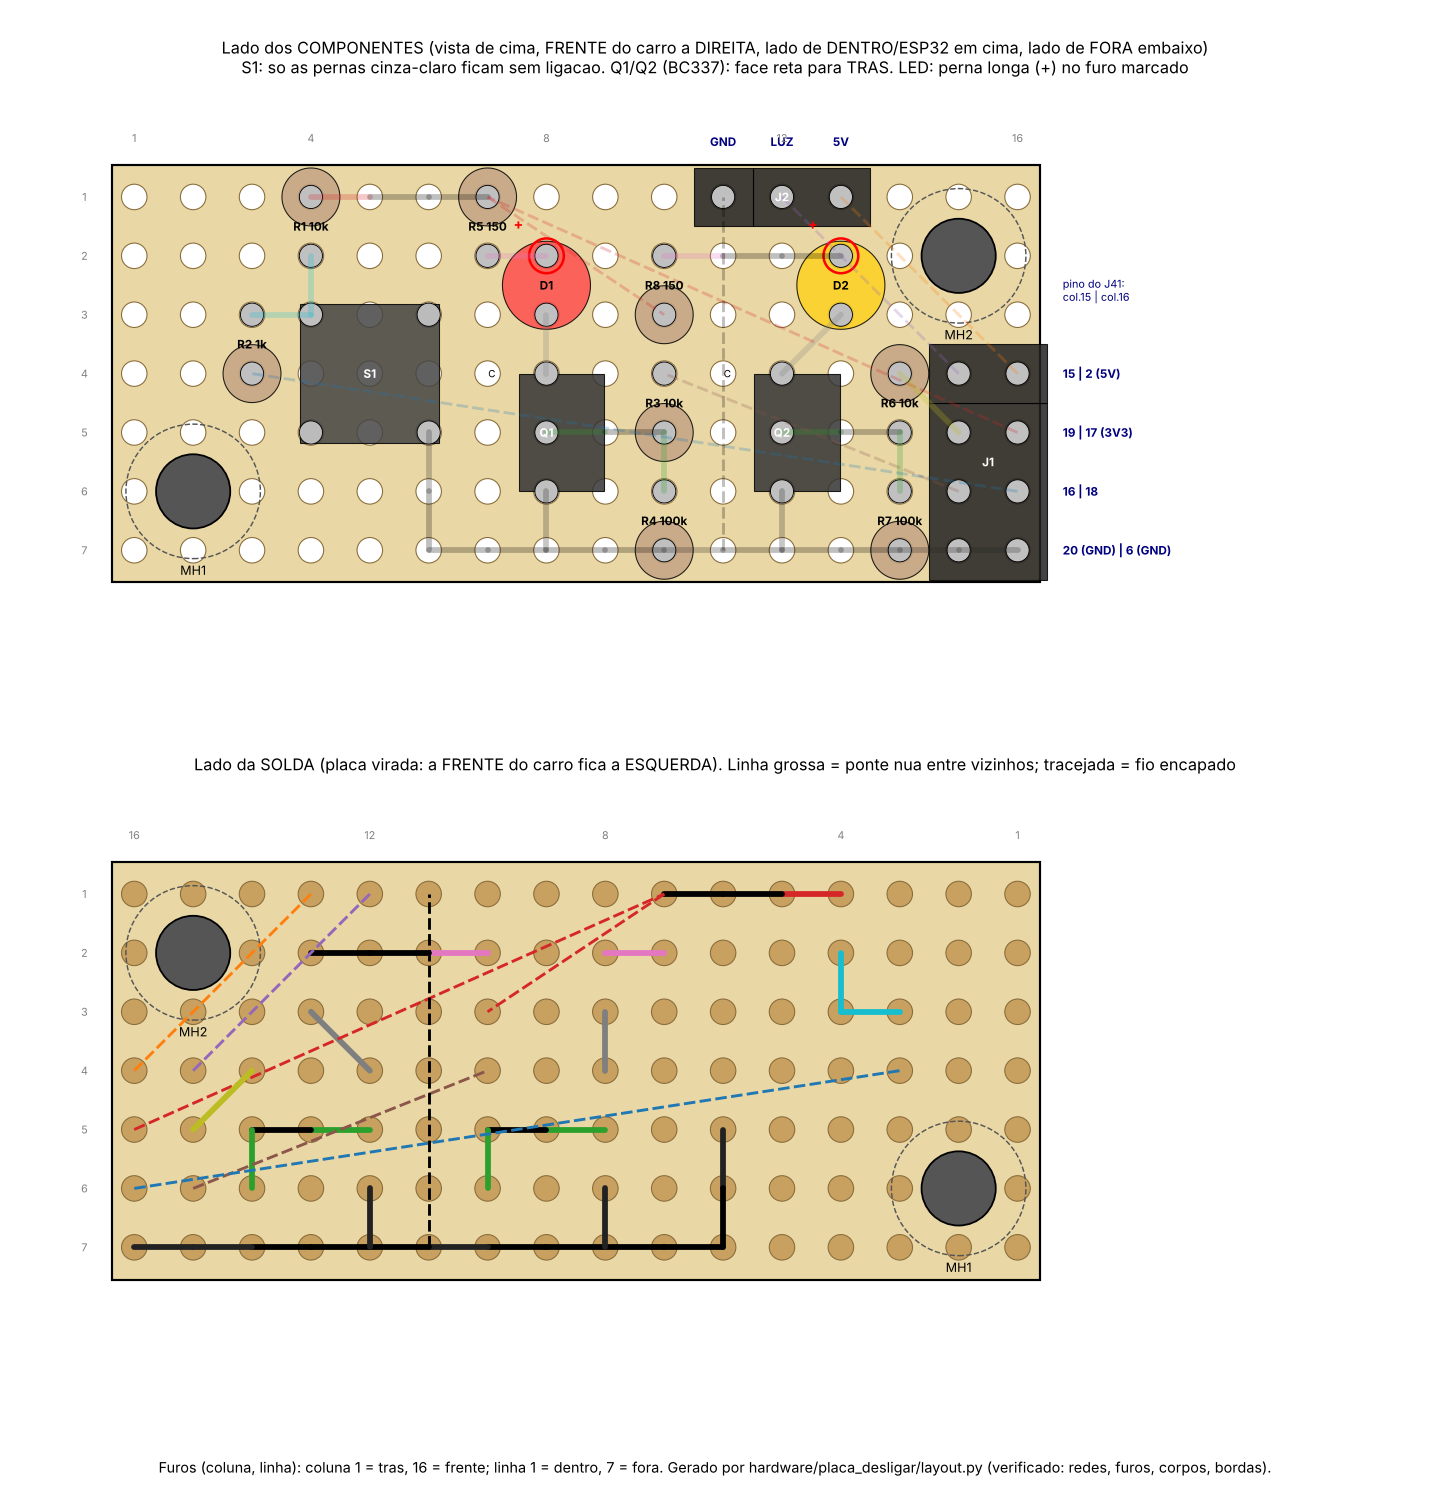
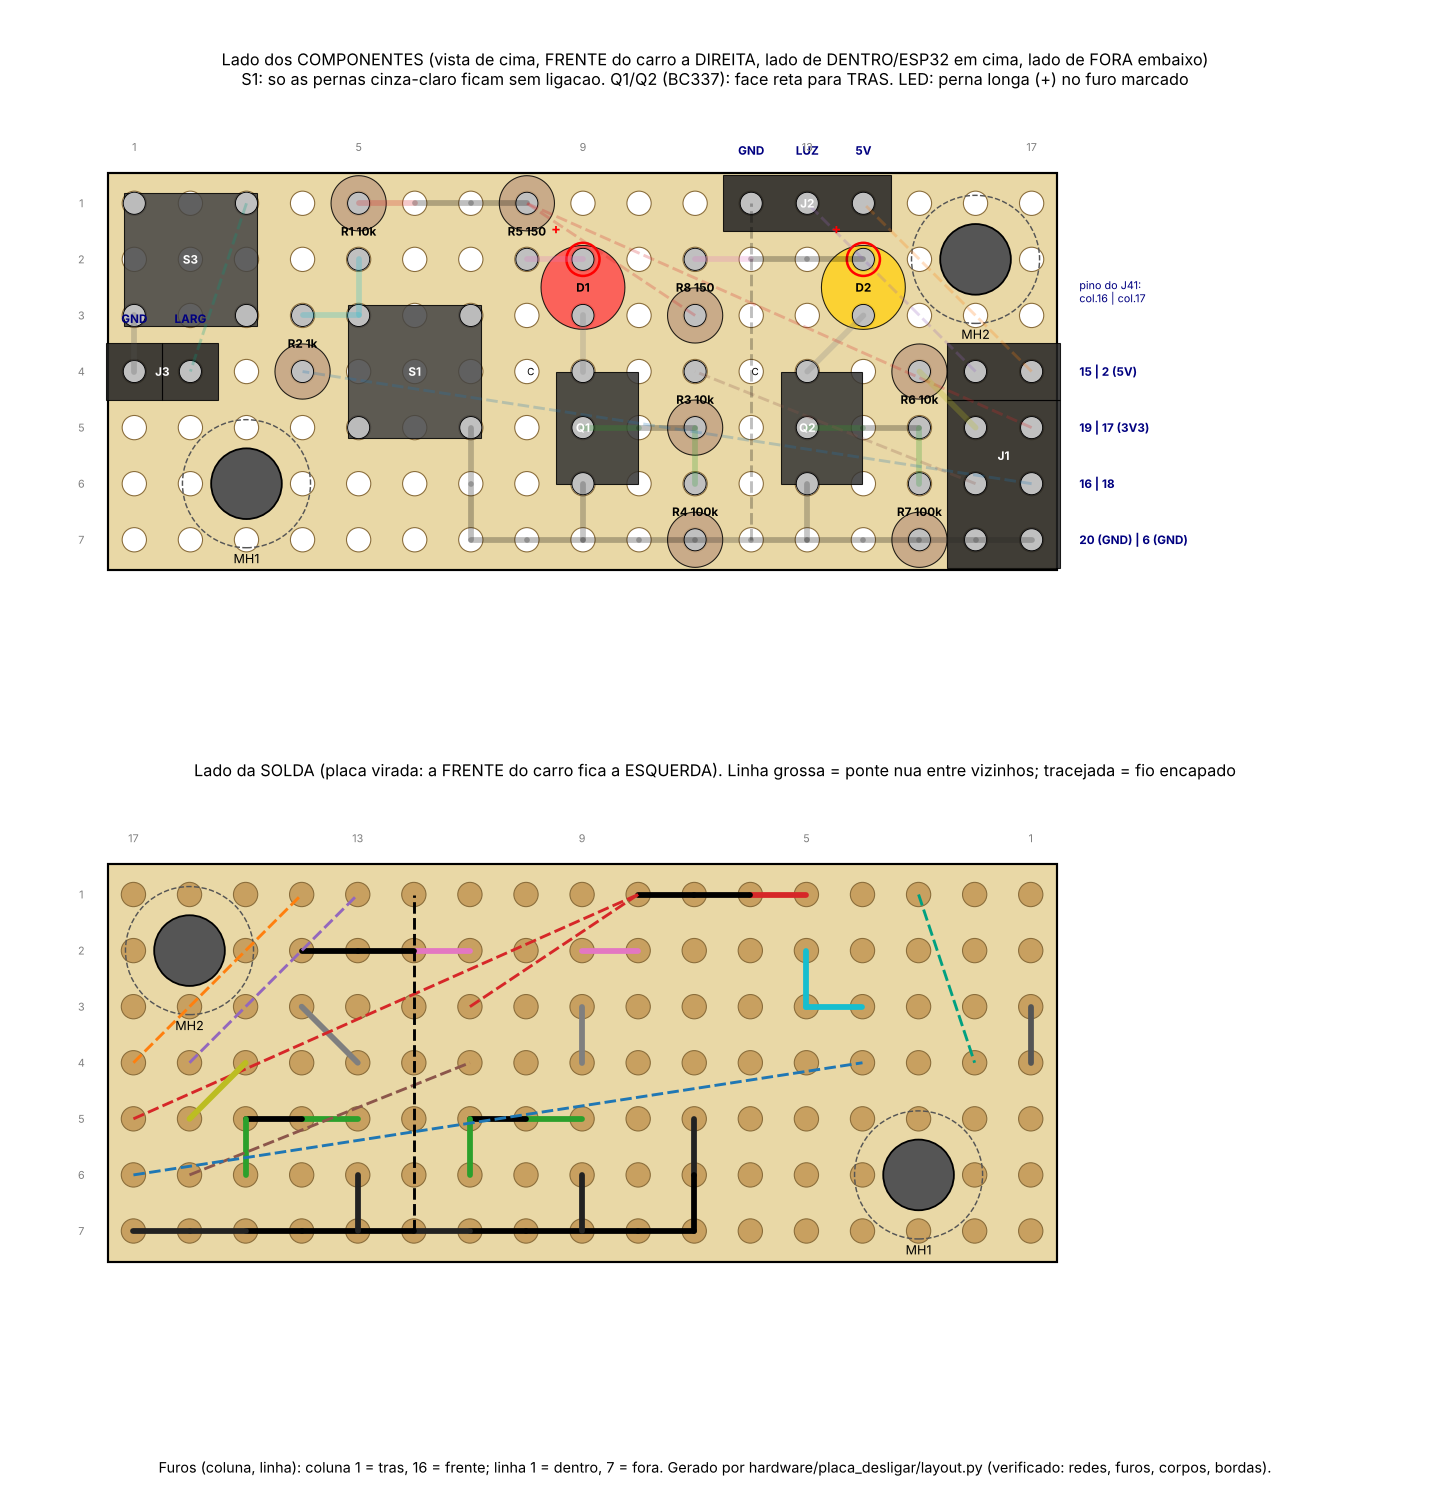
Painel do operador: botao de largada no lugar do jumper J14 (D-035)
17 x 7 furos; S3 isolado, ligado ao J14 por 2 fios. 11 testes negativos.

Claude-Session: https://claude.ai/code/session_0183QWVXUmJpejJRi33sugJa

diff --git a/hardware/placa_desligar/layout.py b/hardware/placa_desligar/layout.py
@@ -23,9 +23,9 @@ import shapely.geometry as sg
 
 AQUI = os.path.dirname(os.path.abspath(__file__))
 PASSO = 2.54
-NC, NR = 16, 7
-LARG, ALT = 40.0, 18.0                    # u (tras -> frente) x w (dentro -> fora), mm
-U0, W0 = 0.95, 1.37                       # centro do furo (1, 1)
+NC, NR = 17, 7
+LARG, ALT = 43.0, 18.0                    # u (tras -> frente) x w (dentro -> fora), mm
+U0, W0 = 1.2, 1.37                       # centro do furo (1, 1)
 
 
 def mm(c, r):
@@ -34,65 +34,71 @@ def mm(c, r):
 
 # ------------------------------------------------------------------------------------------- pecas
 # perna: (c, r, rede). rede None = so mecanica (nao ligar nada).
-FUROS_M3 = {'MH1': (2, 6), 'MH2': (15, 2)}
+FUROS_M3 = {'MH1': (3, 6), 'MH2': (16, 2)}
 R_CABECA = 2.9                            # cabeca do M3 / porca (mm)
 
 PECAS = {
     # J1: 2 x 4 macho. Os 8 jumpers do J41 chegam pela frente. Ordem escolhida para os fios nao cruzarem.
-    'J1': dict(tipo='barra', pernas=[(15, 4, 'P15'), (16, 4, '5V'), (15, 5, 'P19'), (16, 5, '3V3'),
-                                     (15, 6, 'P16'), (16, 6, 'P18'), (15, 7, 'GND'), (16, 7, 'GND')],
-               rotulos={(15, 4): '15', (16, 4): '2 (5V)', (15, 5): '19', (16, 5): '17 (3V3)', (15, 6): '16',
-                        (16, 6): '18', (15, 7): '20 (GND)', (16, 7): '6 (GND)'}),
+    'J1': dict(tipo='barra', pernas=[(16, 4, 'P15'), (17, 4, '5V'), (16, 5, 'P19'), (17, 5, '3V3'),
+                                     (16, 6, 'P16'), (17, 6, 'P18'), (16, 7, 'GND'), (17, 7, 'GND')],
+               rotulos={(16, 4): '15', (17, 4): '2 (5V)', (16, 5): '19', (17, 5): '17 (3V3)', (16, 6): '16',
+                        (17, 6): '18', (16, 7): '20 (GND)', (17, 7): '6 (GND)'}),
     # J2: 1 x 3 macho para o modulo da luz (no mastro): GND, controle (pino 15), 5 V
-    'J2': dict(tipo='barra', pernas=[(11, 1, 'GND'), (12, 1, 'P15'), (13, 1, '5V')],
-               rotulos={(11, 1): 'GND', (12, 1): 'LUZ', (13, 1): '5V'}),
+    'J2': dict(tipo='barra', pernas=[(12, 1, 'GND'), (13, 1, 'P15'), (14, 1, '5V')],
+               rotulos={(12, 1): 'GND', (13, 1): 'LUZ', (14, 1): '5V'}),
     # botao 6x6: pernas em diagonal (4,3)-(6,5) sao as que chaveiam em qualquer posicao
-    'S1': dict(tipo='botao', pernas=[(4, 3, 'BOT'), (6, 3, None), (4, 5, None), (6, 5, 'GND')]),
-    'R1': dict(tipo='res', valor='10k', pernas=[(4, 1, '3V3'), (4, 2, 'BOT')], corpo=(4, 1)),
-    'R2': dict(tipo='res', valor='1k', pernas=[(3, 3, 'BOT'), (3, 4, 'P18')], corpo=(3, 4)),
+    'S1': dict(tipo='botao', pernas=[(5, 3, 'BOT'), (7, 3, None), (5, 5, None), (7, 5, 'GND')]),
+    # S3: botao de LARGADA (no lugar do jumper J14 da placa da ESP32). Isolado do resto: so liga nos 2 pinos do J3,
+    # que vao ao J14 da ESP32 por 2 jumpers Dupont. Pernas usadas em diagonal: (3,1)-(1,3)
+    'S3': dict(tipo='botao', pernas=[(3, 1, 'LARG'), (1, 1, None), (3, 3, None), (1, 3, 'LARG_GND')]),
+    'J3': dict(tipo='barra', pernas=[(1, 4, 'LARG_GND'), (2, 4, 'LARG')], rotulos={(1, 4): 'GND', (2, 4): 'LARG'}),
+    'R1': dict(tipo='res', valor='10k', pernas=[(5, 1, '3V3'), (5, 2, 'BOT')], corpo=(5, 1)),
+    'R2': dict(tipo='res', valor='1k', pernas=[(4, 3, 'BOT'), (4, 4, 'P18')], corpo=(4, 4)),
     # vermelho: "Jetson ligada / apagou = pode desligar a chave" (pino 16)
-    'R5': dict(tipo='res', valor='150', pernas=[(7, 1, '3V3'), (7, 2, 'LEDV')], corpo=(7, 1)),
-    'D1': dict(tipo='led', cor='vermelho', pernas=[(8, 2, 'LEDV'), (8, 3, 'C1')]),          # (anodo, catodo)
-    'Q1': dict(tipo='to92', pernas=[(8, 4, 'C1'), (8, 5, 'B1'), (8, 6, 'GND')], face='tras'),  # C B E
-    'R3': dict(tipo='res', valor='10k', pernas=[(10, 4, 'P16'), (10, 5, 'B1')], corpo=(10, 5)),
-    'R4': dict(tipo='res', valor='100k', pernas=[(10, 6, 'B1'), (10, 7, 'GND')], corpo=(10, 7)),
+    'R5': dict(tipo='res', valor='150', pernas=[(8, 1, '3V3'), (8, 2, 'LEDV')], corpo=(8, 1)),
+    'D1': dict(tipo='led', cor='vermelho', pernas=[(9, 2, 'LEDV'), (9, 3, 'C1')]),          # (anodo, catodo)
+    'Q1': dict(tipo='to92', pernas=[(9, 4, 'C1'), (9, 5, 'B1'), (9, 6, 'GND')], face='tras'),  # C B E
+    'R3': dict(tipo='res', valor='10k', pernas=[(11, 4, 'P16'), (11, 5, 'B1')], corpo=(11, 5)),
+    'R4': dict(tipo='res', valor='100k', pernas=[(11, 6, 'B1'), (11, 7, 'GND')], corpo=(11, 7)),
     # amarelo: "codigo rodando" (pino 19)
-    'R8': dict(tipo='res', valor='150', pernas=[(10, 3, '3V3'), (10, 2, 'LEDA')], corpo=(10, 3)),
-    'D2': dict(tipo='led', cor='amarelo', pernas=[(13, 2, 'LEDA'), (13, 3, 'C2')]),
-    'Q2': dict(tipo='to92', pernas=[(12, 4, 'C2'), (12, 5, 'B2'), (12, 6, 'GND')], face='tras'),
-    'R6': dict(tipo='res', valor='10k', pernas=[(14, 4, 'P19'), (14, 5, 'B2')], corpo=(14, 4)),
-    'R7': dict(tipo='res', valor='100k', pernas=[(14, 6, 'B2'), (14, 7, 'GND')], corpo=(14, 7)),
+    'R8': dict(tipo='res', valor='150', pernas=[(11, 3, '3V3'), (11, 2, 'LEDA')], corpo=(11, 3)),
+    'D2': dict(tipo='led', cor='amarelo', pernas=[(14, 2, 'LEDA'), (14, 3, 'C2')]),
+    'Q2': dict(tipo='to92', pernas=[(13, 4, 'C2'), (13, 5, 'B2'), (13, 6, 'GND')], face='tras'),
+    'R6': dict(tipo='res', valor='10k', pernas=[(15, 4, 'P19'), (15, 5, 'B2')], corpo=(15, 4)),
+    'R7': dict(tipo='res', valor='100k', pernas=[(15, 6, 'B2'), (15, 7, 'GND')], corpo=(15, 7)),
 }
 
 # ligacoes por baixo: ('ponte', a, b) = perna dobrada / ponte de solda entre furos vizinhos;
 # ('fio', a, b) = fio encapado (30 AWG / cabinho), pode passar por cima de outros furos
 LIGACOES = [
+    # largada (S3 -> J3 -> J14 da ESP32)
+    ('ponte', (1, 3), (1, 4)), ('fio', (3, 1), (2, 4)),
     # botao
-    ('ponte', (4, 2), (4, 3)), ('ponte', (3, 3), (4, 3)),
-    ('ponte', (6, 5), (6, 6)), ('ponte', (6, 6), (6, 7)),
+    ('ponte', (5, 2), (5, 3)), ('ponte', (4, 3), (5, 3)),
+    ('ponte', (7, 5), (7, 6)), ('ponte', (7, 6), (7, 7)),
     # barra de 3V3 (linha 1) ate o R5; R8 por fio
-    ('ponte', (4, 1), (5, 1)), ('ponte', (5, 1), (6, 1)), ('ponte', (6, 1), (7, 1)),
-    ('fio', (7, 1), (10, 3)),
+    ('ponte', (5, 1), (6, 1)), ('ponte', (6, 1), (7, 1)), ('ponte', (7, 1), (8, 1)),
+    ('fio', (8, 1), (11, 3)),
     # barra de GND (linha 7)
-    ('ponte', (6, 7), (7, 7)), ('ponte', (7, 7), (8, 7)), ('ponte', (8, 7), (9, 7)), ('ponte', (9, 7), (10, 7)),
-    ('ponte', (10, 7), (11, 7)), ('ponte', (11, 7), (12, 7)), ('ponte', (12, 7), (13, 7)), ('ponte', (13, 7), (14, 7)),
-    ('ponte', (14, 7), (15, 7)), ('ponte', (15, 7), (16, 7)),
-    ('ponte', (8, 6), (8, 7)), ('ponte', (12, 6), (12, 7)),
+    ('ponte', (7, 7), (8, 7)), ('ponte', (8, 7), (9, 7)), ('ponte', (9, 7), (10, 7)), ('ponte', (10, 7), (11, 7)),
+    ('ponte', (11, 7), (12, 7)), ('ponte', (12, 7), (13, 7)), ('ponte', (13, 7), (14, 7)), ('ponte', (14, 7), (15, 7)),
+    ('ponte', (15, 7), (16, 7)), ('ponte', (16, 7), (17, 7)),
+    ('ponte', (9, 6), (9, 7)), ('ponte', (13, 6), (13, 7)),
     # vermelho
-    ('ponte', (7, 2), (8, 2)), ('ponte', (8, 3), (8, 4)), ('ponte', (8, 5), (9, 5)), ('ponte', (9, 5), (10, 5)),
-    ('ponte', (10, 5), (10, 6)),
+    ('ponte', (8, 2), (9, 2)), ('ponte', (9, 3), (9, 4)), ('ponte', (9, 5), (10, 5)), ('ponte', (10, 5), (11, 5)),
+    ('ponte', (11, 5), (11, 6)),
     # amarelo
-    ('ponte', (10, 2), (11, 2)), ('ponte', (11, 2), (12, 2)), ('ponte', (12, 2), (13, 2)), ('ponte', (13, 3), (12, 4)),
-    ('ponte', (12, 5), (13, 5)), ('ponte', (13, 5), (14, 5)), ('ponte', (14, 5), (14, 6)),
+    ('ponte', (11, 2), (12, 2)), ('ponte', (12, 2), (13, 2)), ('ponte', (13, 2), (14, 2)), ('ponte', (14, 3), (13, 4)),
+    ('ponte', (13, 5), (14, 5)), ('ponte', (14, 5), (15, 5)), ('ponte', (15, 5), (15, 6)),
     # J1 -> pecas
-    ('fio', (16, 5), (7, 1)),        # 3V3
-    ('fio', (15, 6), (10, 4)),       # P16 -> R3
-    ('fio', (16, 6), (3, 4)),        # P18 -> R2
-    ('ponte', (15, 5), (14, 4)),     # P19 -> R6 (perna do R6 dobrada ate o pino do J1, diagonal curta)
+    ('fio', (17, 5), (8, 1)),        # 3V3
+    ('fio', (16, 6), (11, 4)),       # P16 -> R3
+    ('fio', (17, 6), (4, 4)),        # P18 -> R2
+    ('ponte', (16, 5), (15, 4)),     # P19 -> R6 (perna do R6 dobrada ate o pino do J1, diagonal curta)
     # J1 -> J2 (luz)
-    ('fio', (15, 4), (12, 1)),       # P15 -> LUZ
-    ('fio', (16, 4), (13, 1)),       # 5V
-    ('fio', (11, 7), (11, 1)),       # GND
+    ('fio', (16, 4), (13, 1)),       # P15 -> LUZ
+    ('fio', (17, 4), (14, 1)),       # 5V
+    ('fio', (12, 7), (12, 1)),       # GND
 ]
 
 # o que o esquema pede: rede -> conjunto de (peca, indice da perna)
@@ -105,6 +111,7 @@ REDES = {
     'P18': {('J1', 5), ('R2', 1)},
     'P19': {('J1', 2), ('R6', 0)},
     'BOT': {('S1', 0), ('R1', 1), ('R2', 0)},
+    'LARG': {('S3', 0), ('J3', 1)}, 'LARG_GND': {('S3', 3), ('J3', 0)},
     'LEDV': {('R5', 1), ('D1', 0)}, 'C1': {('D1', 1), ('Q1', 0)}, 'B1': {('Q1', 1), ('R3', 1), ('R4', 0)},
     'LEDA': {('R8', 1), ('D2', 0)}, 'C2': {('D2', 1), ('Q2', 0)}, 'B2': {('Q2', 1), ('R6', 1), ('R7', 0)},
 }
@@ -223,7 +230,8 @@ def exportar():
         u = sum(q[0] for q in pts) / len(pts); w = sum(q[1] for q in pts) / len(pts)
         return [round(u, 2), round(w, 2)]
     dados = dict(placa=[LARG, ALT, 1.6], furos_m3={k: [round(v, 2) for v in mm(*c)] for k, c in FUROS_M3.items()},
-                 botao=pos('S1'), led_vermelho=pos('D1'), led_amarelo=pos('D2'),
+                 botao=pos('S1'), botao_largada=pos('S3'), j3=dict(centro=pos('J3'), lu=5.08, lw=2.54, altura=8.5),
+                 led_vermelho=pos('D1'), led_amarelo=pos('D2'),
                  j1=dict(centro=pos('J1'), lu=5.08, lw=10.16, altura=8.5), j2=dict(centro=pos('J2'), lu=7.62, lw=2.54, altura=8.5),
                  obs='u: da borda de tras para a frente; w: da borda de dentro (ESP32) para fora; mm. Gerado por layout.py')
     with open(os.path.join(AQUI, 'layout.json'), 'w') as f:
@@ -233,7 +241,7 @@ def exportar():
 
 CORES = {'3V3': '#d62728', 'GND': '#222222', '5V': '#ff7f0e', 'P15': '#9467bd', 'P16': '#8c564b', 'P18': '#1f77b4',
          'P19': '#bcbd22', 'BOT': '#17becf', 'LEDV': '#e377c2', 'C1': '#7f7f7f', 'B1': '#2ca02c', 'LEDA': '#e377c2',
-         'C2': '#7f7f7f', 'B2': '#2ca02c'}
+         'C2': '#7f7f7f', 'B2': '#2ca02c', 'LARG': '#00a080', 'LARG_GND': '#555555'}
 
 
 def desenhar(arq):
@@ -274,16 +282,16 @@ def desenhar(arq):
                 txt = nome + (' ' + p['valor'] if 'valor' in p else '')
                 ax.text(X(cu), Y(cw), txt, ha='center', va='center', fontsize=6.5,
                         color='white' if p['tipo'] in ('to92', 'botao', 'barra') else 'black', weight='bold')
-                if nome == 'J2':
+                if nome in ('J2', 'J3'):
                     for (c, r), rot in p['rotulos'].items():
                         u, w = mm(c, r)
                         ax.text(X(u), Y(w) + 2.2, rot, fontsize=6.5, ha='center', color='navy', weight='bold')
                 if nome == 'J1':
                     for r in range(4, 8):
-                        a, b = p['rotulos'][(15, r)], p['rotulos'][(16, r)]
-                        ax.text(X(LARG) + 1.0, Y(mm(16, r)[1]), f'{a} | {b}', fontsize=6.5, ha='left', va='center',
+                        a, b = p['rotulos'][(16, r)], p['rotulos'][(17, r)]
+                        ax.text(X(LARG) + 1.0, Y(mm(17, r)[1]), f'{a} | {b}', fontsize=6.5, ha='left', va='center',
                                 color='navy', weight='bold')
-                    ax.text(X(LARG) + 1.0, Y(mm(16, 3)[1]) + 0.6, 'pino do J41:\ncol.15 | col.16', fontsize=6, ha='left',
+                    ax.text(X(LARG) + 1.0, Y(mm(17, 3)[1]) + 0.6, 'pino do J41:\ncol.16 | col.17', fontsize=6, ha='left',
                             color='navy')
                 if p['tipo'] == 'to92':
                     (c, r, _) = p['pernas'][0]
@@ -298,7 +306,7 @@ def desenhar(arq):
             cor = CORES.get(rede_de.get(a) or '', 'k')
             ax.plot([X(ua), X(ub)], [Y(wa), Y(wb)], color=cor, lw=3.2 if tipo == 'ponte' else 1.6,
                     ls='-' if tipo == 'ponte' else (0, (4, 1.5)), alpha=1.0 if baixo else 0.25, solid_capstyle='round')
-        for c in (1, 4, 8, 12, 16):
+        for c in (1, 5, 9, 13, 17):
             ax.text(X(mm(c, 1)[0]), 1.0, str(c), ha='center', fontsize=6, color='gray')
         for r in range(1, NR + 1):
             ax.text(X(-1.2) if not baixo else X(LARG + 1.2), Y(mm(1, r)[1]), str(r), va='center', ha='center', fontsize=6,
@@ -327,21 +335,23 @@ def negativos():
         err = verificar(pc, lg, rd, fm)
         pegou = any(contendo in e for e in err)
         casos.append((nome, pegou, err[:1]))
-    caso('falta a ponte do emissor do Q1 ao GND', 'rede GND', lambda pc, lg, rd, fm: lg.remove(('ponte', (8, 6), (8, 7))))
-    caso('fio do 5V soldado no pino do 3V3', 'rede', lambda pc, lg, rd, fm: (lg.remove(('fio', (16, 4), (13, 1))),
-                                                                          lg.append(('fio', (16, 5), (13, 1)))))
+    caso('falta a ponte do emissor do Q1 ao GND', 'rede GND', lambda pc, lg, rd, fm: lg.remove(('ponte', (9, 6), (9, 7))))
+    caso('fio do 5V soldado no pino do 3V3', 'rede', lambda pc, lg, rd, fm: (lg.remove(('fio', (17, 4), (14, 1))),
+                                                                          lg.append(('fio', (17, 5), (14, 1)))))
     caso('ponte nua comprida (fio sem capa atravessando a placa)', 'ponte nua',
-         lambda pc, lg, rd, fm: (lg.remove(('fio', (15, 6), (10, 4))), lg.append(('ponte', (15, 6), (10, 4)))))
+         lambda pc, lg, rd, fm: (lg.remove(('fio', (16, 6), (11, 4))), lg.append(('ponte', (16, 6), (11, 4)))))
     caso('perna mecanica do botao ligada na barra de GND', 'so mecanica',
-         lambda pc, lg, rd, fm: lg.extend([('ponte', (4, 5), (5, 6)), ('ponte', (5, 6), (6, 6)), ('ponte', (6, 6), (6, 7))]))
-    caso('ponte terminando num furo vazio (ponta solta)', 'ponta solta', lambda pc, lg, rd, fm: lg.append(('ponte', (14, 7), (13, 6))))
-    caso('duas pernas no mesmo furo', 'duas pernas', lambda pc, lg, rd, fm: pc['R4']['pernas'].__setitem__(0, (10, 5, 'B1')))
+         lambda pc, lg, rd, fm: lg.extend([('ponte', (5, 5), (6, 6)), ('ponte', (6, 6), (7, 6)), ('ponte', (7, 6), (7, 7))]))
+    caso('ponte terminando num furo vazio (ponta solta)', 'ponta solta', lambda pc, lg, rd, fm: lg.append(('ponte', (15, 7), (14, 6))))
+    caso('duas pernas no mesmo furo', 'duas pernas', lambda pc, lg, rd, fm: pc['R4']['pernas'].__setitem__(0, (11, 5, 'B1')))
     caso('LED em cima do transistor (corpos sobrepostos)', 'sobrepoem',
-         lambda pc, lg, rd, fm: pc['D1'].__setitem__('pernas', [(9, 4, 'LEDV'), (9, 6, 'C1')]))
-    caso('parafuso no meio dos resistores', 'parafuso', lambda pc, lg, rd, fm: fm.__setitem__('MH1', (10, 6)))
+         lambda pc, lg, rd, fm: pc['D1'].__setitem__('pernas', [(10, 4, 'LEDV'), (10, 6, 'C1')]))
+    caso('parafuso no meio dos resistores', 'parafuso', lambda pc, lg, rd, fm: fm.__setitem__('MH1', (11, 6)))
     caso('J1 no meio da placa (longe do passa-fio do J41)', 'J1 nao esta', lambda pc, lg, rd, fm:
          pc['J1'].__setitem__('pernas', [(c - 6, r, n) for c, r, n in pc['J1']['pernas']]))
-    caso('resistor com rotulo de rede errado', 'rotulada', lambda pc, lg, rd, fm: pc['R3']['pernas'].__setitem__(0, (10, 4, 'P18')))
+    caso('botao de largada ligado no GND da Jetson (tem de ficar isolado, so no J3)', 'rede LARG_GND',
+         lambda pc, lg, rd, fm: lg.append(('fio', (1, 4), (10, 7))))
+    caso('resistor com rotulo de rede errado', 'rotulada', lambda pc, lg, rd, fm: pc['R3']['pernas'].__setitem__(0, (11, 4, 'P18')))
     return casos
 
 
